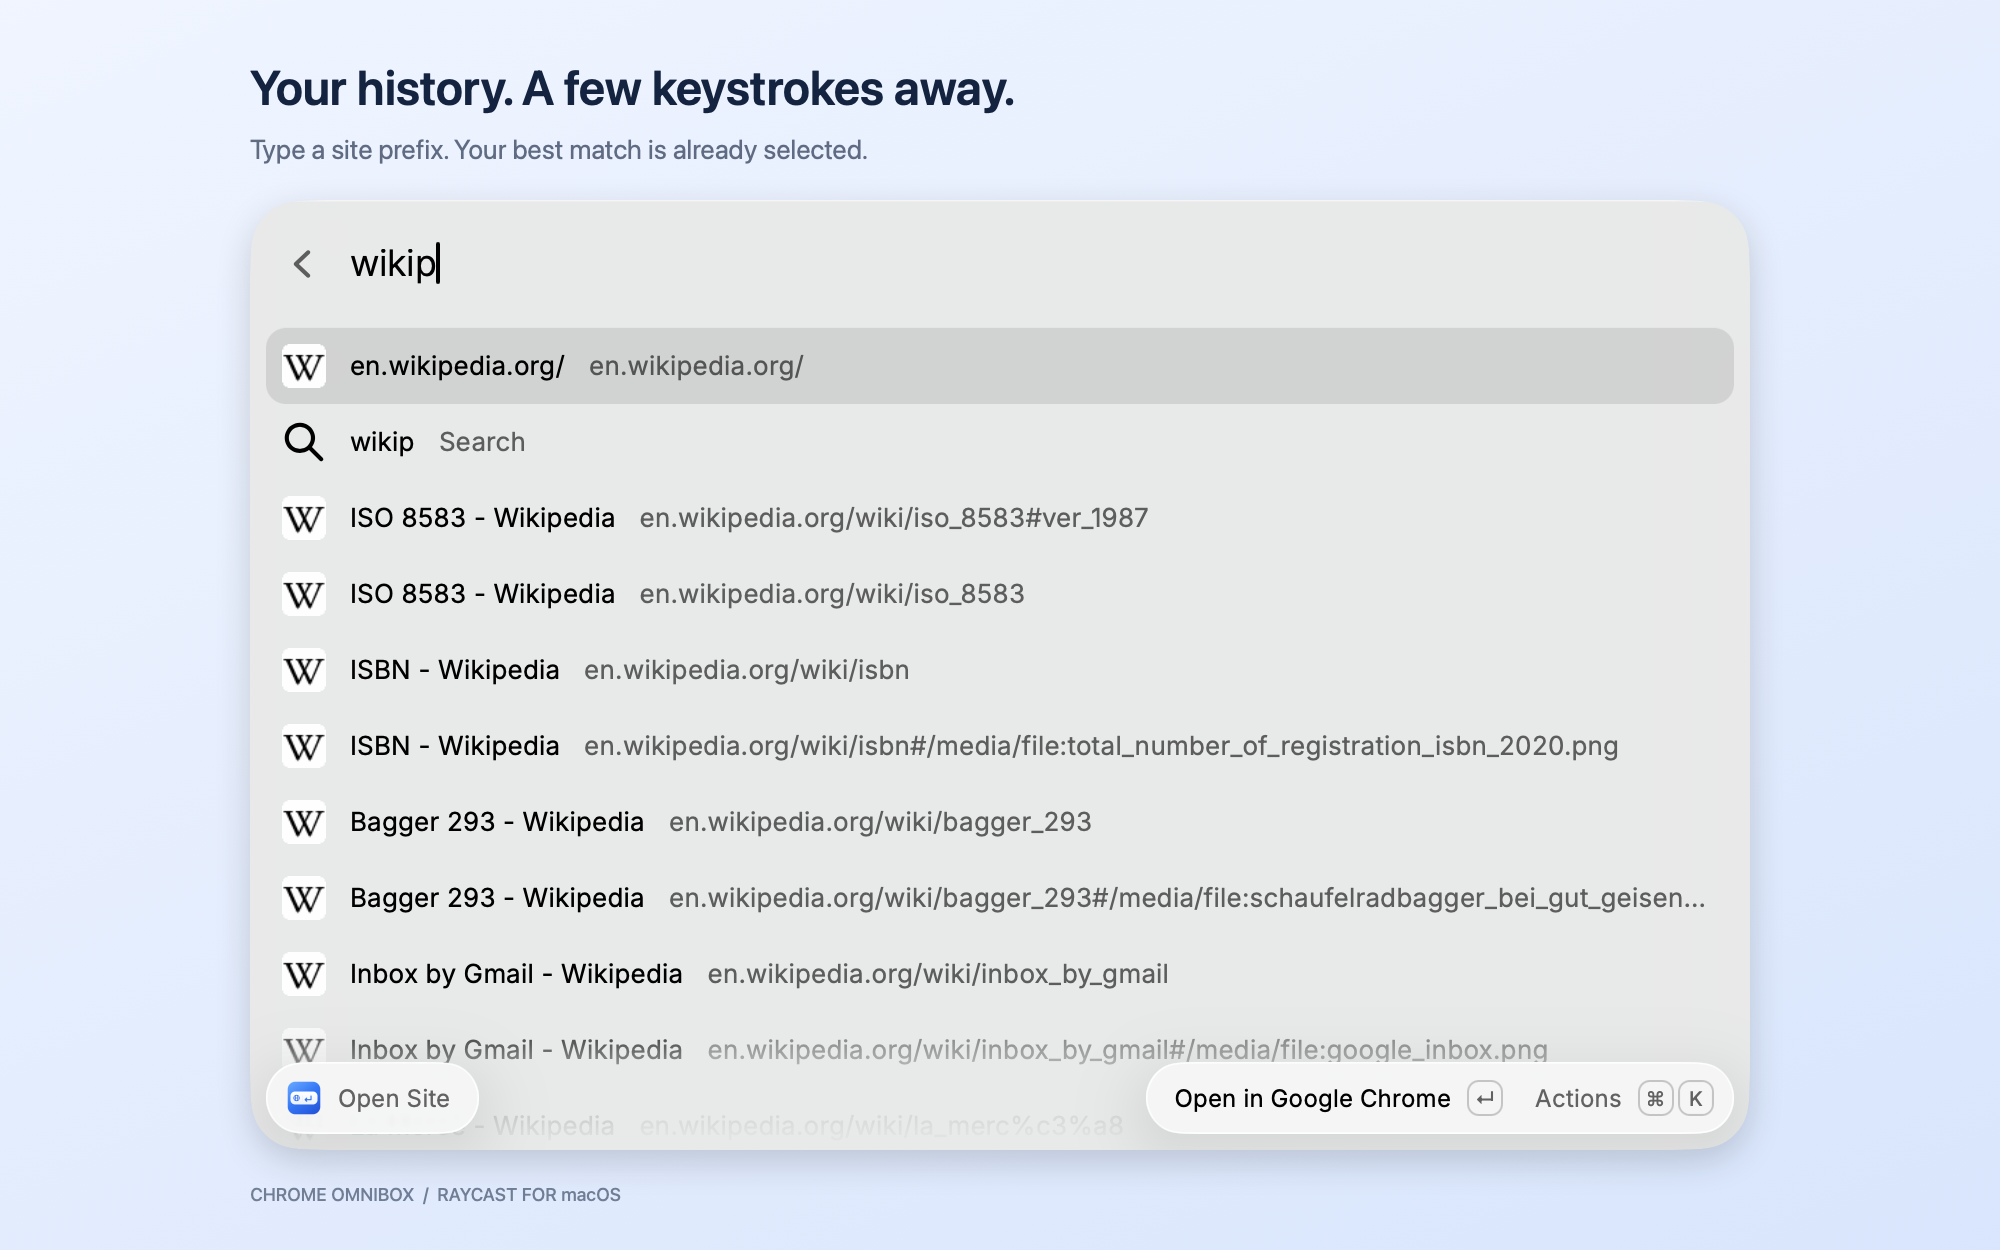
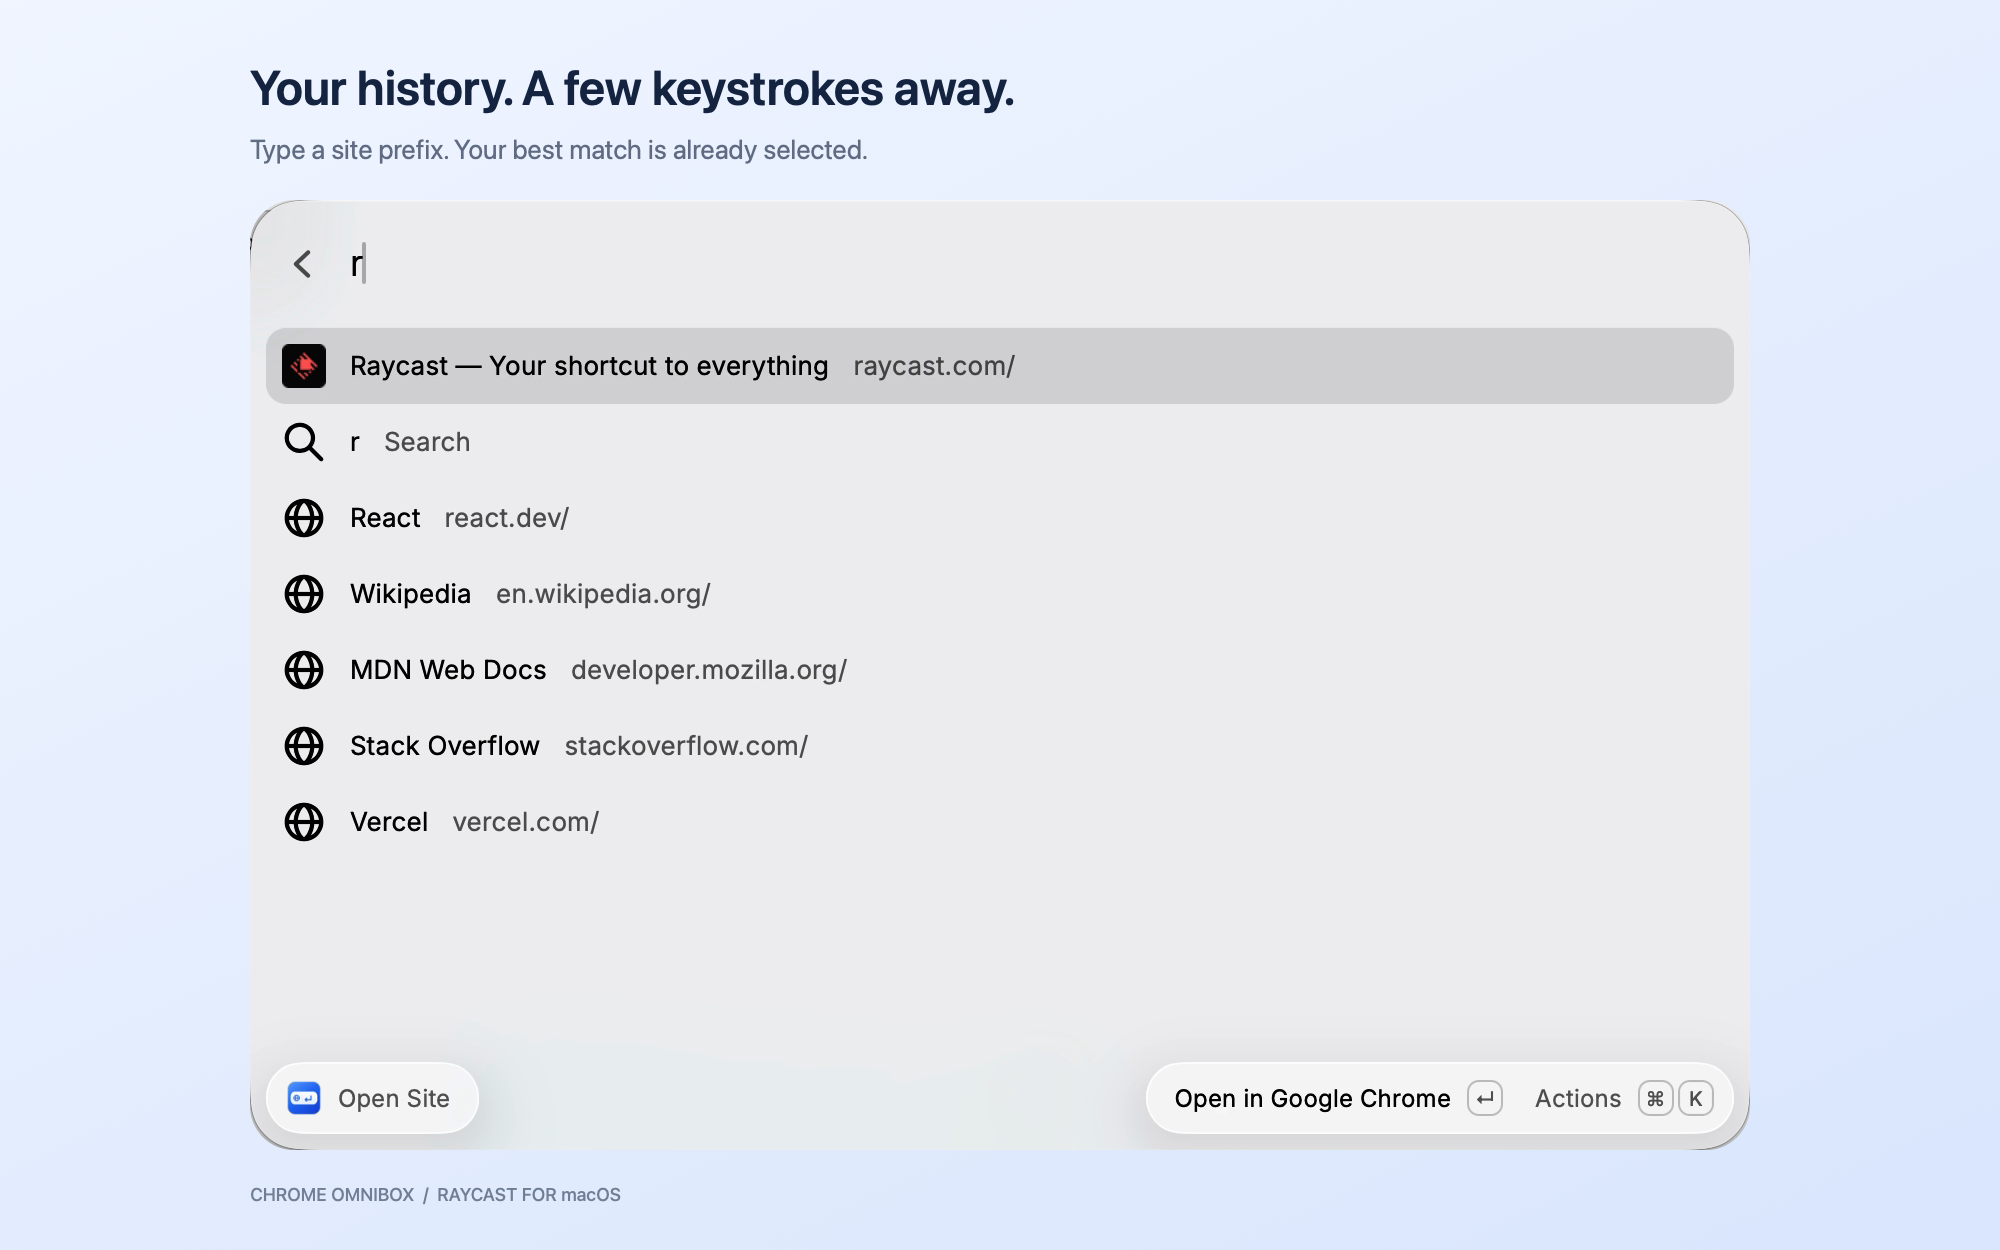
[ticket ID unavailable] [chrome-omnibox] refresh marketplace visuals and

diff --git a/README.md b/README.md
@@ -1,6 +1,4 @@
-<img src="assets/icon.png" width="128" height="128" alt="Chrome Omnibox icon">
-
-# Chrome Omnibox
+<h1><img src="assets/icon.png" width="48" height="48" alt=""> Chrome Omnibox</h1>
 
 Your browser's address bar, one hotkey away — in [Raycast](https://www.raycast.com).
 
@@ -8,38 +6,35 @@ Your browser's address bar, one hotkey away — in [Raycast](https://www.raycast
 ![Platforms: Windows and macOS](https://img.shields.io/badge/platform-Windows%20%7C%20macOS-blue)
 [![MIT license](https://img.shields.io/github/license/allnightlong/raycast-chrome-omnibox)](LICENSE)
 
-<!-- Uncomment once the extension is live in the Store:
-[![Install Chrome Omnibox in Raycast](https://www.raycast.com/allnightlong/chrome-omnibox/install_button@2x.png?v=1.1)](https://www.raycast.com/allnightlong/chrome-omnibox)
--->
+Press a hotkey, type a site or address, and press **Enter**. History matches open in your browser; anything else becomes a Google search. No aliases or quicklinks to maintain.
 
-Hit a hotkey from any app, type a few letters of a site you've been to, press <kbd>Enter</kbd> — it opens in your browser. No aliases, no quicklinks to maintain: everything is learned from your browser history.
-
-![While working in Warp, press Control-Option-Command-L, type ray to see the Raycast history suggestion, and press Enter to open the site in Chrome](media/workflow.gif)
+[![Launch Open Site from Warp, type ray, and open Raycast in Chrome](media/workflow.gif)](media/workflow.gif)
 
 Recorded with a separate Chrome demo profile and sample history.
 
-| You type | You get |
-| --- | --- |
-| `you` | youtube.com |
-| `cla` | claude.ai |
-| `gm` | Gmail |
-| `habr.com`, `localhost:3000` | opened directly |
-| `how to cook rice` | Google search |
+- **Smart ranking:** site prefixes first, then word and substring matches, weighted by frequency and recency.
+- **Automatic setup:** uses the most recently updated history among supported browsers and profiles.
+- **Local history:** history and favicons stay on your machine. Opening sites and Google searches uses your browser.
 
-## Features
+## Setup
 
-- **One step.** The best guess is already selected; <kbd>Enter</kbd> does the right thing. Web search is always the next item.
-- **Ranks like an address bar.** Address prefix beats a word match beats a substring; ties go to the sites you visit and type most, and visited recently. Pages of one site collapse into the site itself, so `cla` lands on `claude.ai/`, not on some old chat.
-- **Zero config.** Works with Chrome and every other Chromium browser: finds each installed one and profile and uses the one whose history was written most recently — the one you actually use.
-- **Private.** History and favicons are read from the browser's local databases. Nothing is sent anywhere.
+In **Raycast Settings → Shortcuts**, find **Chrome Omnibox → Open Site** and assign a global hotkey. Older versions use **Settings → Extensions**.
+
+Try **⌃⌥⌘L** on macOS (shown above) or **Ctrl+Alt+Space** on Windows. Choose a shortcut that does not conflict with your apps or Raycast's launcher. See [Raycast's hotkey guide](https://manual.raycast.com/command-aliases-and-hotkeys).
 
 ## Screenshots
 
-Captured in Raycast on macOS with public-site queries.
+**Find a site from your history**
 
-| History | Direct address | Web search |
-| --- | --- | --- |
-| [![Wikipedia history results](media/screenshot-history.png)](media/screenshot-history.png) | [![Open example.com directly](media/screenshot-address.png)](media/screenshot-address.png) | [![Search for how to cook rice](media/screenshot-search.png)](media/screenshot-search.png) |
+![Typing r selects Raycast from the demo browser history](media/screenshot-history.png)
+
+**Open an address directly**
+
+![Typing https://www.raycast.com/ selects the direct address, ready to open in Chrome](media/screenshot-address.png)
+
+**Search the web**
+
+![Typing how to cook rice selects a Google search](media/screenshot-search.png)
 
 ## Supported browsers
 
@@ -53,42 +48,18 @@ Captured in Raycast on macOS with public-site queries.
 
 Missing yours? Open an issue with the browser name and its `chrome://version` → *Profile Path*.
 
-## Recommended setup: launch directly with a hotkey
-
-Assign a **global hotkey to Open Site itself**. This opens the extension from any app and bypasses Raycast's main search dialog: **hotkey → type a site or address → Enter → you're there**. No need to open Raycast and find the command first.
-
-1. Open **Raycast Settings → Shortcuts**, search for **Open Site**, and choose the command under **Chrome Omnibox**. In older Raycast versions, use **Extensions → Chrome Omnibox → Open Site**.
-2. Click **Record Hotkey** and press your chosen shortcut.
-3. Return to any app, such as Warp, and try it.
-
-Suggested macOS shortcuts:
-
-| Shortcut | When to choose it |
-| --- | --- |
-| <kbd>⌃</kbd> + <kbd>⌥</kbd> + <kbd>⌘</kbd> + <kbd>L</kbd> | Recommended starting point, used in the showcase: L for Link, separate from the usual Space-based launchers. |
-| Double-tap right <kbd>⌥</kbd> | A one-finger alternative if another command isn't already using it. |
-| <kbd>Hyper</kbd> + <kbd>L</kbd> | If you already have a Hyper key configured; L for Link. |
-
-Keep the command's hotkey separate from Raycast's launcher hotkey. <kbd>⌥</kbd> + <kbd>Space</kbd> opens Raycast by default; macOS uses <kbd>⌘</kbd> + <kbd>Space</kbd> for Spotlight, <kbd>⌃</kbd> + <kbd>Space</kbd> and <kbd>⌃</kbd> + <kbd>⌥</kbd> + <kbd>Space</kbd> for input-source switching, and <kbd>⌃</kbd> + <kbd>⌘</kbd> + <kbd>Space</kbd> for emoji. Check your own app shortcuts too; no combination is universally free.
-
-On Windows, try <kbd>Ctrl</kbd> + <kbd>Alt</kbd> + <kbd>Space</kbd> if it is free in your setup.
-
-See [Raycast's hotkey guide](https://manual.raycast.com/command-aliases-and-hotkeys) and [Apple's shortcut reference](https://support.apple.com/en-us/102650).
-
 ## Development
 
 ```bash
 npm install
-npm run dev     # load into Raycast in development mode
-npm test        # ranking tests (node:test, no Raycast needed)
+npm run dev
+npm test
 npm run lint
 npm run build
 ```
 
-**Windows Raycast, toolchain in WSL:** `npm run dev:win` builds into the Windows profile's `.config\raycast\extensions\` and Windows Raycast picks it up in its Development section — no Node needed on Windows.
+With a WSL toolchain, use `npm run dev:win` for Windows Raycast.
 
-**Publishing:** `npm run publish` locally, or Actions → *Publish to Raycast Store* → Run workflow (needs repo secret `RAYCAST_PUBLISH_TOKEN`: classic PAT with `repo` scope). Either way it opens or updates the PR in [raycast/extensions](https://github.com/raycast/extensions).
+**Submit:** `npm run publish` opens or updates a PR in [raycast/extensions](https://github.com/raycast/extensions). The manual *Publish to Raycast Store* workflow also works with the `RAYCAST_PUBLISH_TOKEN` repo secret (classic PAT, `repo` scope).
 
-## License
-
-[MIT](LICENSE)
+[MIT license](LICENSE)
